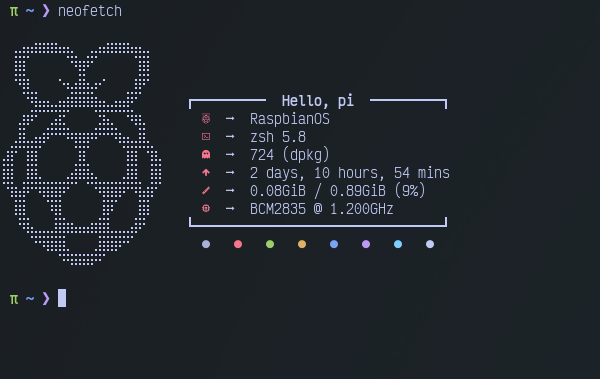
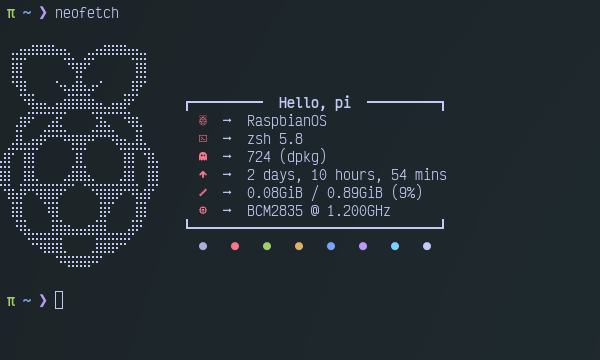
--

diff --git a/README.md b/README.md
@@ -2,7 +2,7 @@
 
 <p align="center">
 <kbd>
-<img src="./img/rpi-neofetch.png" width="646" height="426">
+<img src="./img/rpi-neofetch.png" width="450" height="270">
 </kbd>
 </p>
 
